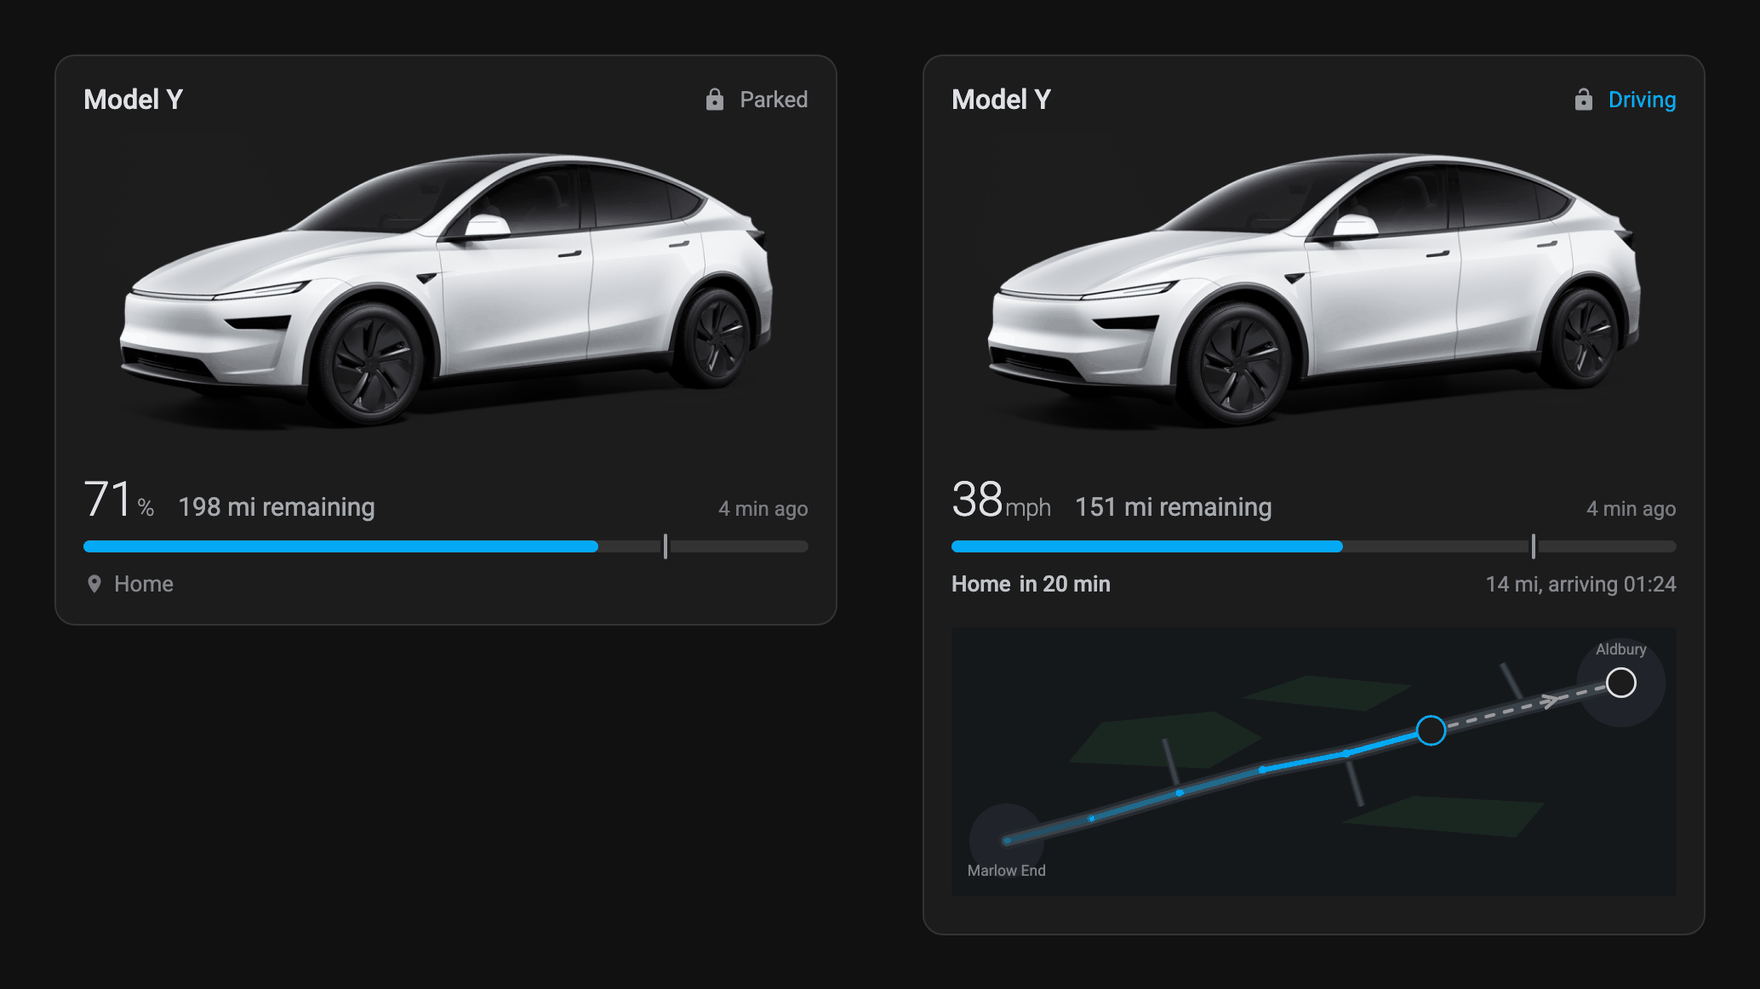
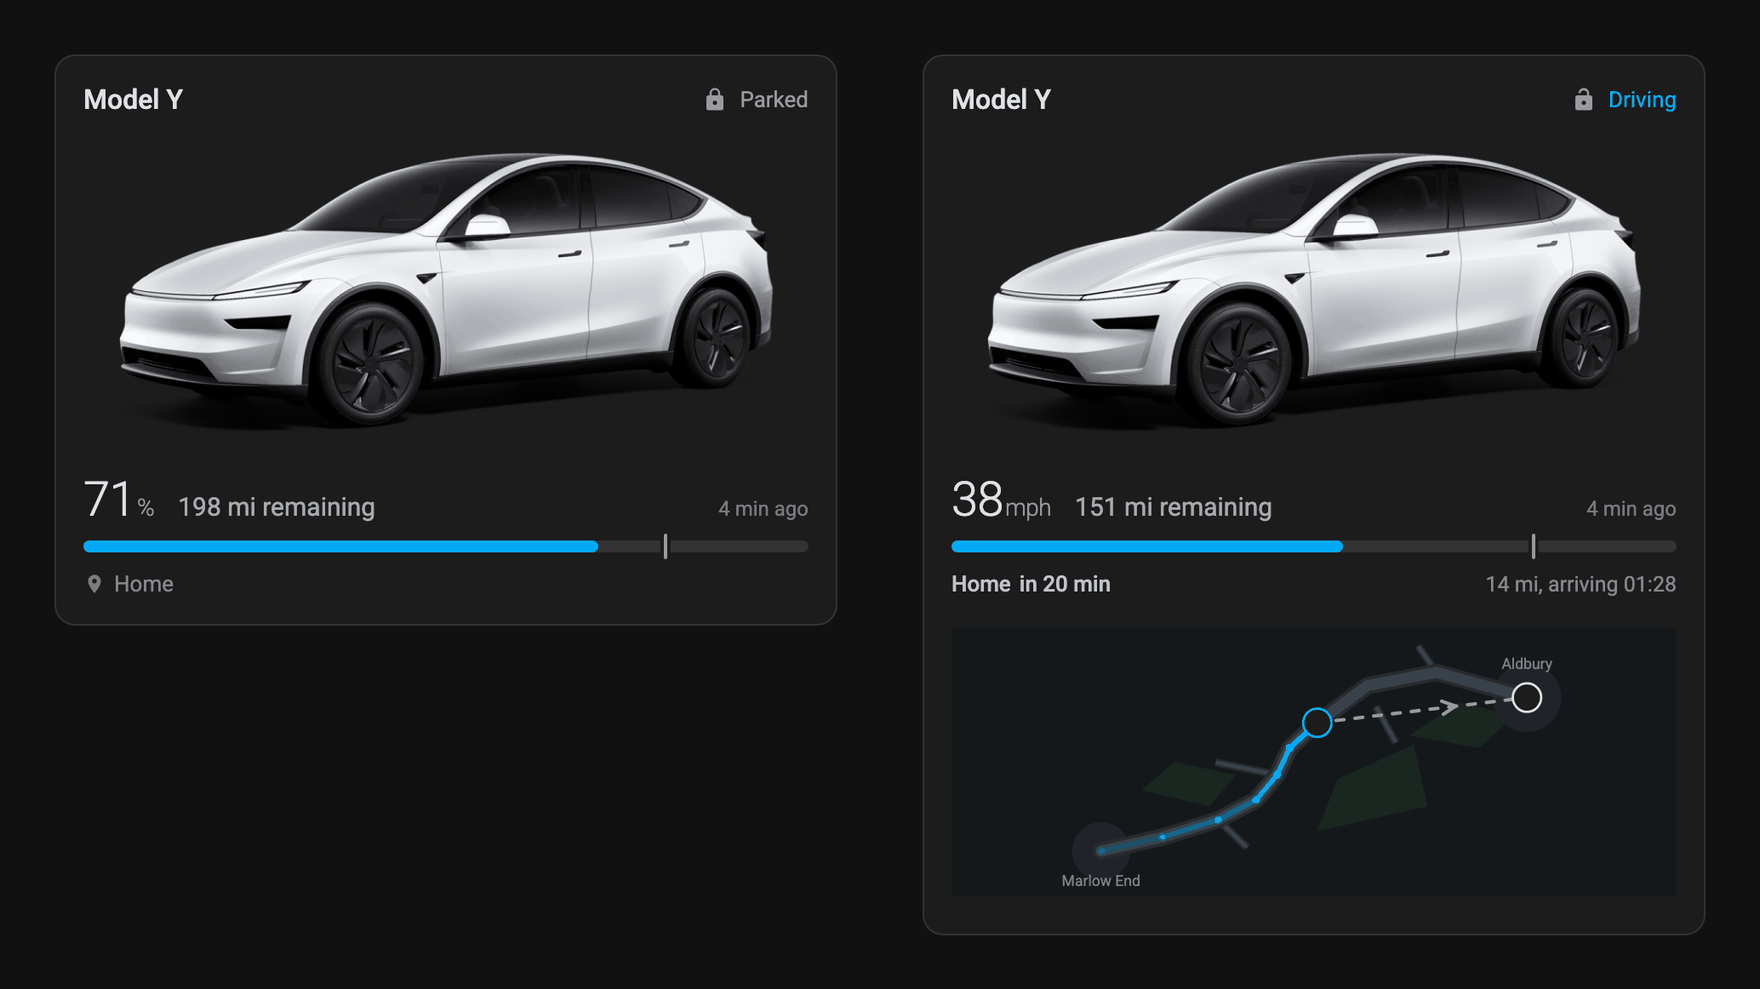
Bend the road, and add a page that runs the card live
The road ran dead straight, so the trail and the bearing lay on top of one
another and neither said anything. It now leaves one town heading east, turns
north, and arcs away before the last town, while the bearing cuts straight
across the corner. That is the distinction the dashed line exists to draw: it
is where the car is pointed, not the road it will take.

Adds test/live.html, which renders every state from dist in one page. The
charging sheen and the drifting dashes are the two things the screenshots
cannot carry, and this is the only way to look at them without a Home
Assistant.

Changed region(s): [[0.5625, 0.637, 0.9375, 0.91]]

diff --git a/test/live.html b/test/live.html
@@ -1,0 +1,112 @@
+<!doctype html>
+<html>
+  <head>
+    <meta charset="utf-8" />
+    <title>Tesla Card — live</title>
+    <link
+      rel="stylesheet"
+      href="https://fonts.googleapis.com/css2?family=IBM+Plex+Sans:wght@400;500;600&display=swap"
+    />
+    <style>
+      :root {
+        color-scheme: dark;
+      }
+      body {
+        margin: 0;
+        padding: 28px;
+        background: #0c0e11;
+        color: #e7eaef;
+        font-family: 'IBM Plex Sans', system-ui, sans-serif;
+      }
+      h1 {
+        font-size: 26px;
+        font-weight: 600;
+        letter-spacing: -0.02em;
+        margin: 0 0 6px;
+      }
+      p.lede {
+        color: #9199a5;
+        margin: 0 0 4px;
+        max-width: 62ch;
+        line-height: 1.55;
+      }
+      p.hint {
+        color: #63a8ff;
+        margin: 0 0 26px;
+        font-size: 14px;
+      }
+      .grid {
+        display: grid;
+        gap: 22px;
+        grid-template-columns: repeat(auto-fill, minmax(500px, 1fr));
+        align-items: start;
+      }
+      figure {
+        margin: 0;
+      }
+      figcaption {
+        font-size: 13px;
+        color: #9199a5;
+        margin: 0 0 8px;
+      }
+      figcaption b {
+        color: #e7eaef;
+        font-weight: 500;
+      }
+      iframe {
+        width: 100%;
+        height: 460px;
+        border: 0;
+        border-radius: 12px;
+        display: block;
+        background: #111;
+      }
+      iframe.light {
+        background: #f2f3f5;
+      }
+      iframe.tall {
+        height: 640px;
+      }
+    </style>
+  </head>
+  <body>
+    <h1>Tesla Card, running</h1>
+    <p class="lede">
+      Every card below is the built bundle from <code>dist/</code>, rendered live against a
+      stubbed Home Assistant. Rebuild with <code>npm run build</code> and reload to see changes.
+    </p>
+    <p class="hint">
+      Watch the charging gauge and the route line: the sheen and the drifting dashes are the two
+      things a screenshot cannot show.
+    </p>
+    <div class="grid" id="grid"></div>
+
+    <script type="module">
+      const CASES = [
+        ['parked', 'Parked', 'charge, range, and the zone if Home Assistant has one.'],
+        ['charging', 'Charging', 'a slow sheen runs along the green fill.'],
+        ['navigating_map', 'Navigating', 'the dashes drift towards the destination.', 'tall'],
+        ['light_nav', 'Navigating, light theme', 'the same, on a light theme.', 'tall light'],
+        ['asleep', 'Asleep', 'the last reading, dimmed, with its age.'],
+        ['low', 'Low charge', 'the gauge turns amber below twenty percent.'],
+        ['controls_rest', 'Controls at rest', 'nothing running, so everything sits quiet.', 'tall'],
+        [
+          'controls_active',
+          'Controls active',
+          'charging, climate on, sentry armed, unlocked.',
+          'tall'
+        ],
+        ['light', 'Light theme', 'every colour comes from Home Assistant tokens.', 'light']
+      ]
+
+      const grid = document.getElementById('grid')
+      for (const [id, title, note, extra = ''] of CASES) {
+        const fig = document.createElement('figure')
+        fig.innerHTML =
+          `<figcaption><b>${title}</b> ${note}</figcaption>` +
+          `<iframe class="${extra}" src="shot.html#${id}" loading="lazy"></iframe>`
+        grid.append(fig)
+      }
+    </script>
+  </body>
+</html>

diff --git a/test/shot.html b/test/shot.html
@@ -66,22 +66,30 @@
        * latitude and longitude as the journey, so the trail runs along the
        * road instead of across whatever the illustration happened to contain.
        */
+      /**
+       * East out of one town, a bend northward, then east again into the
+       * next. The turn is the point: a straight line would make the bearing
+       * and the road indistinguishable, and the bearing is not a route.
+       */
       const ROAD = [
-        [51.44, -1.02],
-        [51.4495, -0.962],
-        [51.4605, -0.902],
-        [51.4702, -0.845],
-        [51.4772, -0.788],
-        [51.487, -0.73],
-        [51.4972, -0.666],
-        [51.5074, -0.6]
+        [51.4315, -1.018],
+        [51.4392, -0.9635],
+        [51.4487, -0.9142],
+        [51.4598, -0.8804],
+        [51.4736, -0.8618],
+        [51.4885, -0.8506],
+        [51.5024, -0.8262],
+        [51.5228, -0.7818],
+        [51.5302, -0.7205],
+        [51.5218, -0.6712],
+        [51.5163, -0.6402]
       ]
       /**
        * Where the car has got to: the trail must end exactly at its marker,
        * so both come from the same slice of the road rather than being
        * written out twice and drifting apart.
        */
-      const AT = 5
+      const AT = 6
       const DRIVEN = ROAD.slice(0, AT + 1)
       const CAR = ROAD[AT]
       const DESTINATION = ROAD[ROAD.length - 1]
@@ -93,38 +101,41 @@
       // rather than tick marks.
       const LANES = [
         [
-          [51.4605, -0.902],
-          [51.4835, -0.9125]
+          [51.4487, -0.9142],
+          [51.4335, -0.8885]
         ],
         [
-          [51.4772, -0.788],
-          [51.4548, -0.7775]
+          [51.4736, -0.8618],
+          [51.4805, -0.9165]
         ],
         [
-          [51.4972, -0.666],
-          [51.5155, -0.6815]
+          [51.5112, -0.7742],
+          [51.4915, -0.7565]
+        ],
+        [
+          [51.5302, -0.7205],
+          [51.5448, -0.7368]
         ]
       ]
       // Open country either side of the road, large enough to read as fields.
       const GREEN = [
         [
-          [51.4735, -0.978],
-          [51.4905, -0.955],
-          [51.4952, -0.878],
-          [51.4838, -0.845],
-          [51.4708, -0.882]
+          [51.4652, -0.9825],
+          [51.4808, -0.9528],
+          [51.4735, -0.8985],
+          [51.4562, -0.9218]
         ],
         [
-          [51.4478, -0.792],
-          [51.4592, -0.742],
-          [51.4562, -0.652],
-          [51.4415, -0.672]
+          [51.4425, -0.8265],
+          [51.4712, -0.8082],
+          [51.4905, -0.7405],
+          [51.4562, -0.7285]
         ],
         [
-          [51.5008, -0.86],
-          [51.5105, -0.815],
-          [51.5062, -0.742],
-          [51.4952, -0.775]
+          [51.4952, -0.7452],
+          [51.5138, -0.7002],
+          [51.5062, -0.6512],
+          [51.4885, -0.6825]
         ]
       ]
 

diff --git a/README.md b/README.md
@@ -4,7 +4,7 @@ A Home Assistant dashboard card for vehicles on the [Tesla Fleet][fleet] integra
 at your car and it works out the rest: model, model year, body generation and every entity it
 needs.
 
-![The card parked, and driving with a route set](https://raw.githubusercontent.com/alexluckett/tesla-card/main/docs/preview.png?v=20260910b)
+![The card parked, and driving with a route set](https://raw.githubusercontent.com/alexluckett/tesla-card/main/docs/preview.png?v=20260910c)
 
 ## Install
 
@@ -68,7 +68,7 @@ polls every ten minutes, so **asleep is the common state** and driving is the ra
 - **Charging** — the gauge fills in green, and a slow sheen runs along it while energy flows.
 - **Driving** — speed leads instead of charge.
 
-![Parked, charging, driving and asleep](https://raw.githubusercontent.com/alexluckett/tesla-card/main/docs/states.png?v=20260910b)
+![Parked, charging, driving and asleep](https://raw.githubusercontent.com/alexluckett/tesla-card/main/docs/states.png?v=20260910c)
 
 The mark on the charge gauge is your **charge limit**, read from the car.
 
@@ -77,7 +77,7 @@ The mark on the charge gauge is your **charge limit**, read from the car.
 Every colour comes from a Home Assistant token, so the card follows whatever theme is running.
 Nothing is hard-coded.
 
-![The same card on a dark and a light theme](https://raw.githubusercontent.com/alexluckett/tesla-card/main/docs/themes.png?v=20260910b)
+![The same card on a dark and a light theme](https://raw.githubusercontent.com/alexluckett/tesla-card/main/docs/themes.png?v=20260910c)
 
 The screenshots throughout use Pearl White; set `paint` to whichever of the seven your car is.
 
@@ -114,7 +114,7 @@ the card does not do that.
 
 Tesla does not publish the road route, so nothing on the map pretends to be one.
 
-![Driving with the map showing the bearing to the destination](https://raw.githubusercontent.com/alexluckett/tesla-card/main/docs/map.png?v=20260910b)
+![Driving with the map showing the bearing to the destination](https://raw.githubusercontent.com/alexluckett/tesla-card/main/docs/map.png?v=20260910c)
 
 The map above is drawn from the coordinates and paths the card passes, including a trail the
 card built from real history; Home Assistant renders the cartography itself, in your theme.
@@ -152,7 +152,7 @@ They show what they control rather than just offering a switch: the lock reads `
 active is tinted. So the row doubles as a second status line and is worth having on screen even
 when you rarely press it.
 
-![Controls at rest, and with charging, climate and sentry active](https://raw.githubusercontent.com/alexluckett/tesla-card/main/docs/controls.png?v=20260910b)
+![Controls at rest, and with charging, climate and sentry active](https://raw.githubusercontent.com/alexluckett/tesla-card/main/docs/controls.png?v=20260910c)
 
 Controlling a Tesla needs command signing set up in the integration; if you have not done that,
 leave this off.
